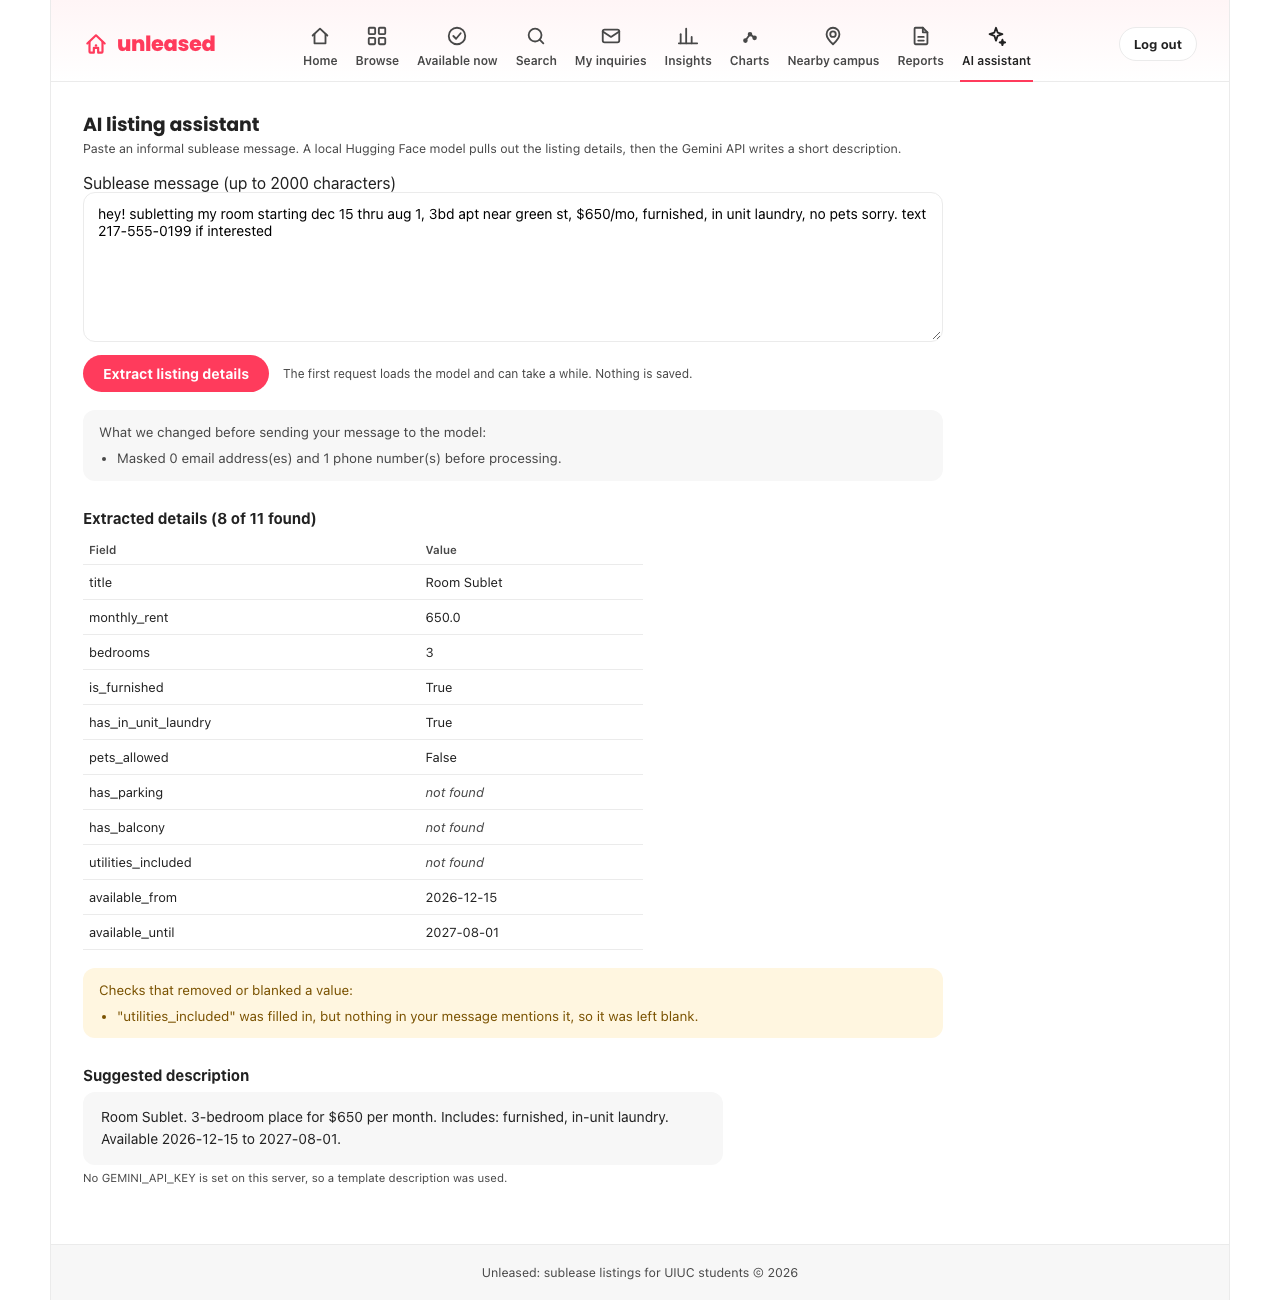
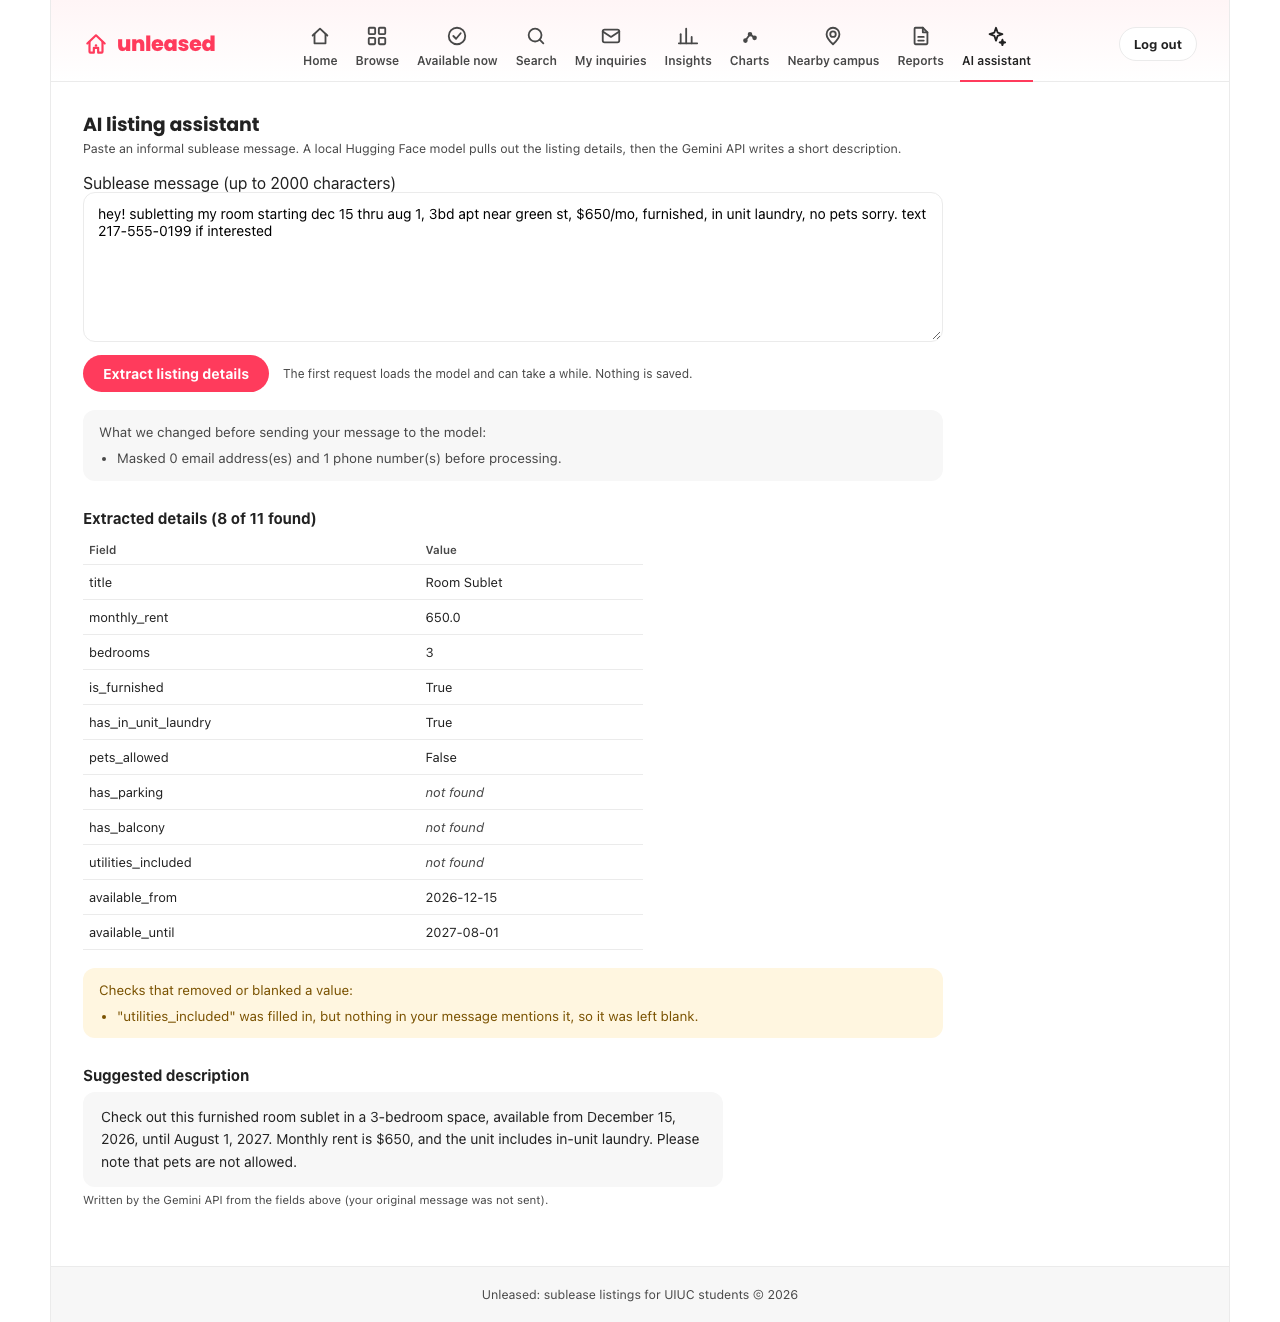
Skip retries on Gemini daily-quota 429s; retake screenshot with Gemini output
A 429 asking for a multi-hour wait is a daily quota, and retrying it only burns
more requests. Retry only short waits, say when a daily limit resets, and
document that quotas are per model. Screenshot now shows the Gemini result.

diff --git a/listings/ai_external.py b/listings/ai_external.py
@@ -84,14 +84,38 @@ def _clean_reply(text):
     return text[:MAX_DESCRIPTION_CHARS].rstrip()
 
 
+MAX_RETRY_WAIT = 10   # seconds; a 429 asking for longer than this is a quota, not a blip
+
+
+def retry_delay_seconds(response):
+    """Seconds Google asks us to wait (RetryInfo.retryDelay in an error body), or None."""
+    try:
+        for detail in response.json()['error'].get('details', []):
+            if detail.get('@type', '').endswith('RetryInfo'):
+                return float(str(detail['retryDelay']).rstrip('s'))
+    except (ValueError, KeyError, TypeError, AttributeError):
+        pass
+    return None
+
+
 def _post_with_retry(url, headers, payload):
-    """POST to Gemini, retrying briefly on rate-limit/overload responses (not on timeouts)."""
+    """
+    POST to Gemini, retrying briefly on overload (5xx) and short rate limits (429).
+    Not retried: timeouts, client errors, and a 429 that asks for a long wait
+    (a daily quota); retrying those only burns more of the quota.
+    """
     attempts = settings.GEMINI_RETRIES + 1
     for attempt in range(attempts):
         response = requests.post(url, headers=headers, json=payload, timeout=settings.AI_EXTERNAL_TIMEOUT)
         if response.status_code not in RETRY_STATUSES or attempt == attempts - 1:
             return response
-        time.sleep(settings.GEMINI_RETRY_DELAY * (attempt + 1))
+        wait = settings.GEMINI_RETRY_DELAY * (attempt + 1)
+        if response.status_code == 429:
+            asked = retry_delay_seconds(response)
+            if asked is None or asked > MAX_RETRY_WAIT:
+                return response
+            wait = max(wait, asked)
+        time.sleep(wait)
 
 
 def generate_description(fields):
@@ -132,7 +156,11 @@ def generate_description(fields):
     except requests.HTTPError as exc:
         status = exc.response.status_code if exc.response is not None else '?'
         if status == 429:
-            reason = 'The Gemini free-tier rate limit was hit (HTTP 429); wait a minute and try again'
+            asked = retry_delay_seconds(exc.response) if exc.response is not None else None
+            if asked and asked > 3600:
+                reason = f'The Gemini free-tier daily limit is used up (HTTP 429); it resets in about {round(asked / 3600)} hour(s)'
+            else:
+                reason = 'The Gemini free-tier rate limit was hit (HTTP 429); wait a minute and try again'
         elif status in (500, 502, 503, 504):
             reason = f'Gemini is busy or unavailable right now (HTTP {status}); try again shortly'
         elif status in (400, 401, 403):

diff --git a/listings/test_ai.py b/listings/test_ai.py
@@ -270,6 +270,33 @@ class ExternalApiTests(TestCase):
         self.assertEqual(result.source, 'fallback')
         self.assertIn('rate limit', result.notice)
 
+    @staticmethod
+    def _quota_response(delay):
+        response = mock.Mock(status_code=429)
+        response.json.return_value = {'error': {'details': [
+            {'@type': 'type.googleapis.com/google.rpc.RetryInfo', 'retryDelay': delay}]}}
+        response.raise_for_status.side_effect = requests.HTTPError(response=response)
+        return response
+
+    @mock.patch('listings.ai_external.time.sleep')
+    @mock.patch('listings.ai_external.requests.post')
+    def test_daily_quota_429_is_not_retried_and_says_when_it_resets(self, post, sleep):
+        post.return_value = self._quota_response('20782s')
+        result = ai_external.generate_description(FIELDS)
+        self.assertEqual(post.call_count, 1)
+        sleep.assert_not_called()
+        self.assertIn('daily limit', result.notice)
+        self.assertIn('6 hour', result.notice)
+
+    @mock.patch('listings.ai_external.time.sleep')
+    @mock.patch('listings.ai_external.requests.post')
+    def test_short_429_is_retried_after_the_delay_google_asks_for(self, post, sleep):
+        post.side_effect = [self._quota_response('4s'), _gemini_ok('A bright furnished room.')]
+        result = ai_external.generate_description(FIELDS)
+        self.assertEqual(result.source, 'gemini')
+        self.assertEqual(post.call_count, 2)
+        self.assertGreaterEqual(sleep.call_args.args[0], 4)
+
     @mock.patch('listings.ai_external.time.sleep')
     @mock.patch('listings.ai_external.requests.post')
     def test_client_errors_are_not_retried(self, post, sleep):

diff --git a/README_AI.md b/README_AI.md
@@ -113,17 +113,19 @@ without those libraries the page shows "The local model libraries are not instal
   for `thinkingLevel: low` (`GEMINI_THINKING_LEVEL`, set it empty for a model that rejects it) with a
   1024-token budget, and a reply whose `finishReason` is not `STOP` falls back to the template instead of
   showing half a sentence.
-- The free tier is rate-limited and sometimes busy: we saw HTTP 503 ("high demand") and 429 ("quota exceeded")
-  from a working key. The call retries up to 2 more times on 429/5xx (`GEMINI_RETRIES`), then falls back to
-  the template with a notice that names the cause ("busy", or "free-tier rate limit, wait a minute").
-- It is a **hybrid pipeline**: the local model reads and validates the messy text, and Gemini only
-  turns the clean fields into a friendly 2-3 sentence description. The prompt tells Gemini to use only
-  those facts and to treat the values as data.
+- The free tier is limited and sometimes busy. From a working key we saw HTTP 503 ("high demand"), HTTP 429 for
+  a per-minute limit, and HTTP 429 for the **daily** limit (`GenerateRequestsPerDayPerProjectPerModel`),
+  which Google said would reset in about 5.8 hours. Quotas are **per model**: when `gemini-flash-latest` was
+  used up, `gemini-3.5-flash` still answered, so setting `GEMINI_MODEL` is a quick workaround.
+- The call retries up to 2 more times on 5xx and on short 429s (`GEMINI_RETRIES`, waiting as long as Google's
+  `retryDelay` asks). It does **not** retry a 429 that asks for a long wait, because that is a quota and retrying
+  only burns more of it. Every failure falls back to the template with a notice that names the cause
+  ("busy", "rate limit, wait a minute", or "daily limit used up, resets in about N hours").
 - `googleapis.com` is on PythonAnywhere's free-tier outbound allowlist, so this call is expected
   to work from a free PythonAnywhere account.
 
 ## Testing
-`python manage.py test listings.test_ai` (63 tests across the app; 52 of them are new). The real model and
+`python manage.py test listings.test_ai` (65 tests across the app; 54 of them are new). The real model and
 real Gemini API are replaced with canned replies, including the broken ones real small models produce
 (code fences, repetition loops, hallucinated dates, injected values). Covered: preprocessing, parsing,
 every validation and grounding rule, the view (login, CSRF, cooldown, short input, unreadable output,
